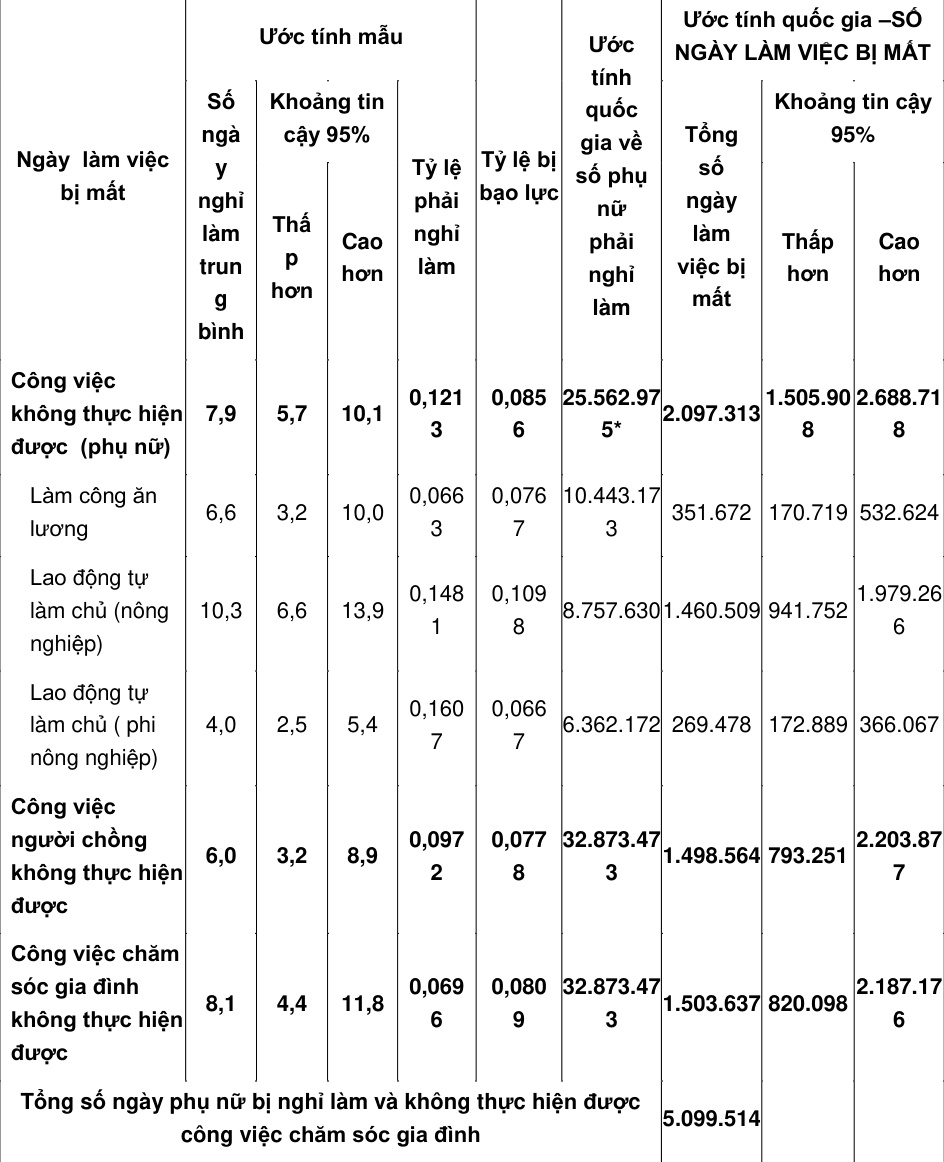
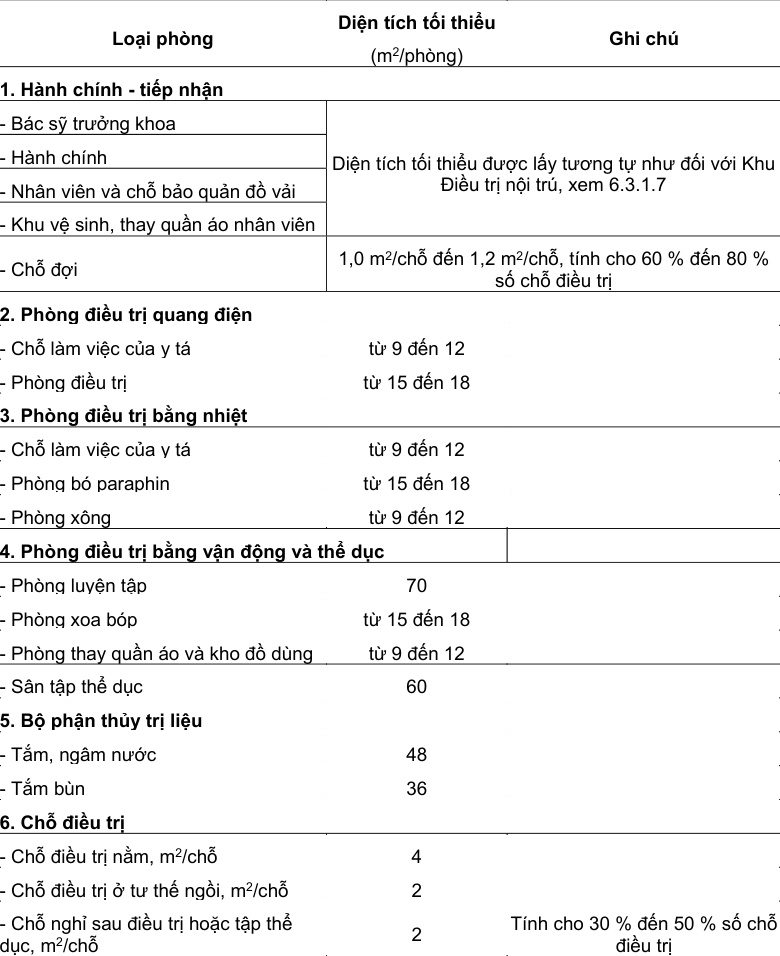
update mask_line to include masking random rows. Also tested and ready

Changed region(s): [[0.0, 0.0, 1.0, 1.0], [0.3692, 0.728, 0.4, 0.7584]]

diff --git a/mask_line.py b/mask_line.py
@@ -1,7 +1,9 @@
 from base import BaseAugmenter
 from utils import *
 from scipy.stats import mode
+from change_color import find_streaks
 
+# np.random.seed(42)
 
 def get_nearby_line_bb(line_bb, line_thickness=5, axis='vertical', side='left'):
     if axis == 'vertical':
@@ -57,7 +59,7 @@ class MaskLineAugmenter(BaseAugmenter):
     def __init__(self):
         super().__init__()
         self.line_thickness = 4
-        self.augment_types = ['all_rows', 'all_cols', 'all_rows_cols']
+        self.augment_types = ['all_rows', 'all_cols', 'all_rows_cols', 'random_rows']
 
 
     def check(self, im: Image, rows, cols, spans, texts):
@@ -124,15 +126,10 @@ class MaskLineAugmenter(BaseAugmenter):
         return (total_rows == 0 or black_rows / total_rows > 0.7) and (total_cols == 0 or black_cols/total_cols > 0.7)
     
 
-    def mask_rows(self, im, rows, cols, spans, text_boxes, cells, mask_type: Literal['all', 'random']='all'):
+    def mask_rows(self, im, rows, cols, spans, text_boxes, cells, remove_indexes):
         """
             remove upper row edges
         """
-        if mask_type == 'random':
-            remove_indexes = np.random.choice(list(range(len(rows))), size=int(len(rows) * 0.5), replace=False)
-        else:
-            remove_indexes = list(range(len(rows)))
-
         rows = sorted(rows, key=lambda x: x[1])
         for row_idx, row_bb in enumerate(rows):
             if row_idx not in remove_indexes:
@@ -312,6 +309,110 @@ class MaskLineAugmenter(BaseAugmenter):
     
 
 
+    def mask_random_rows(self, im: Image, rows, cols, spans, text_boxes, cells):
+        """
+            only keep some row border lines
+            idea:
+            + find streaks
+            + augment in each streak
+            + divide streak based on length
+            + augment in each streak zone
+            condition:
+             + only apply to row streaks with no span cell inside
+
+            divide_indexes: [1, a, b, n]
+            -> zones: (1 -> a), (a+1 -> b), (b+1 -> n) (inclusive at both end)
+        """
+
+        def is_divide_indexes_valid(divide_indexes):
+            for i, index in enumerate(divide_indexes):
+                if i == len(divide_indexes) - 1:
+                    break
+                next_index = divide_indexes[i+1]
+                if i == 0 and next_index - index < 1:
+                    return False
+                elif next_index - (index+1) < 1:
+                    return False
+            return True
+
+        if len(rows) <= 1:
+            return im
+        
+        valid_row_indexes = [row_idx for row_idx, row in enumerate(rows) if is_row_valid(row, spans)]
+        cells = self.extract_cells(rows, cols, spans)
+        streaks = find_streaks(valid_row_indexes, min_len=2)
+        
+        for row_indexes in streaks:
+            num_rows = len(row_indexes)
+            if num_rows <= 3:
+                num_divide = 1
+            elif 3 < num_rows <= 6:
+                num_divide = 2
+            elif 6 < num_rows <= 15:
+                num_divide = np.random.choice([2,3], p=[0.5,0.5])
+                # num_divide = 3
+            else:
+                num_divide = 4
+            
+            if num_divide == 1:
+                divide_indexes = [row_indexes[0], row_indexes[-1]]
+            else:
+                divide_indexes = list(np.random.choice(row_indexes, size=num_divide-1))
+                divide_indexes.sort()
+                divide_indexes = [row_indexes[0]] + divide_indexes + [row_indexes[-1]]
+                num_try, max_try = 0, 10
+                while not is_divide_indexes_valid(divide_indexes) and num_try <= max_try:
+                    divide_indexes = list(np.random.choice(row_indexes, size=num_divide-1))
+                    divide_indexes.sort()
+                    divide_indexes = [row_indexes[0]] + divide_indexes + [row_indexes[-1]]
+                    num_try += 1
+                if num_try > max_try:
+                    return im
+                
+            for i in range(len(divide_indexes)-1):
+                if i == 0:
+                    start_row_index = divide_indexes[i]
+                    end_row_index = divide_indexes[i+1]
+                else:
+                    start_row_index = divide_indexes[i] + 1
+                    end_row_index = divide_indexes[i+1]
+                start_row_bb = rows[start_row_index]
+                end_row_bb = rows[end_row_index]
+                # mask all inside row borders (note: do not mask the first row - header)
+                im = self.mask_rows(im, rows, cols, spans, text_boxes, cells, remove_indexes=list(range(max(2, start_row_index+1), end_row_index+1)))  # mask upper line
+
+                # mask cols (left line)
+                for col_idx, col_bb in enumerate(cols):
+                    xmin = max(0, col_bb[0] - self.line_thickness // 2)
+                    xmax = xmin + self.line_thickness
+                    ymin, ymax = start_row_bb[1]+1, end_row_bb[3]-1
+                    line_bb = [xmin, ymin, xmax, ymax]
+                    nearby_bb = get_nearby_line_bb(line_bb=line_bb, line_thickness=self.line_thickness, axis='vertical')
+                    # check overlap with any text bbox
+                    is_overlap = False
+                    if col_idx > 0:
+                        for text_bb in text_boxes:
+                            text_xmin, text_ymin, text_xmax, text_ymax = text_bb
+                            yr1, yr2, yiou = iou_axis(text_ymin, text_ymax, nearby_bb[1], nearby_bb[3])
+                            if yr1 > 0:
+                                xr1, xr2, xiou = iou_axis(text_xmin, text_xmax, nearby_bb[0], nearby_bb[2])
+                                if xr2 > 0.5:
+                                    is_overlap = True
+                                    break
+                    if not is_overlap:
+                        nearby_region = im[nearby_bb[1]:nearby_bb[3], nearby_bb[0]:nearby_bb[2]]
+                    else:
+                        temp_bb = [col_bb[0], ymin, col_bb[2], ymax]
+                        bg_color = get_background_color(im, temp_bb)
+                        # bg_color = (255, 255, 255)
+                        h, w = nearby_bb[3] - nearby_bb[1], nearby_bb[2] - nearby_bb[0]
+                        nearby_region = np.full(shape=(h, w, 3), fill_value=bg_color, dtype=np.uint8)
+                    im[ymin:ymax, xmin:xmax] = nearby_region
+
+        return im
+    
+
+
     def process(self, im: Image, rows, cols, spans, texts, augment_type='all_rows_cols'):
         assert augment_type in self.augment_types, f'{augment_type} not supported!'
 
@@ -321,17 +422,18 @@ class MaskLineAugmenter(BaseAugmenter):
         cells = self.extract_cells(rows, cols, spans)
 
         if augment_type == 'all_rows':
-            im = self.mask_rows(im, rows, cols, spans, text_boxes, cells, mask_type='all')
+            remove_indexes = list(range(len(rows)))
+            im = self.mask_rows(im, rows, cols, spans, text_boxes, cells, remove_indexes)
         elif augment_type == 'all_cols':
-            im = self.mask_cols(im, rows, cols, spans, text_boxes, cells, mask_type='all')
+            remove_indexes = list(range(len(cols)))
+            im = self.mask_cols(im, rows, cols, spans, text_boxes, cells, remove_indexes)
         elif augment_type == 'all_rows_cols':
-            im = self.mask_rows(im, rows, cols, spans, text_boxes, cells, mask_type='all')
-            im = self.mask_cols(im, rows, cols, spans, text_boxes, cells, mask_type='all')
-        # elif augment_type == 'random_rows':
-        #     im = self.mask_rows(im, rows, cols, spans, text_boxes, mask_type='random')
+            im = self.mask_rows(im, rows, cols, spans, text_boxes, cells, remove_indexes=list(range(len(rows))))
+            im = self.mask_cols(im, rows, cols, spans, text_boxes, cells, remove_indexes=list(range(len(cols))))
+        elif augment_type == 'random_rows':
+            im = self.mask_random_rows(im, rows, cols, spans, text_boxes, cells)
         # elif augment_type == 'random_cols':
         #     im = self.mask_cols(im, rows, cols, spans, text_boxes, mask_type='random')
-
         return Image.fromarray(im[:, :, ::-1]), rows, cols, spans
     
 

diff --git a/main.py b/main.py
@@ -11,15 +11,15 @@ def main():
     # augmenter = ChangeColorAugmenter()
     # augmenter = MergeCellAugmenter()
 
-    # dir = 'temp_imgs_2'
-    dir = 'temp_pdf_imgs'
-    # out_dir = 'results/temp_imgs_2'
-    out_dir = 'results/temp_pdf_imgs'
+    dir = 'temp_imgs_2'
+    # dir = 'temp_pdf_imgs'
+    out_dir = 'results/temp_imgs_2'
+    # out_dir = 'results/temp_pdf_imgs'
 
     os.makedirs(out_dir, exist_ok=True)
     for ip in Path(dir).glob('*'):
-        if '_bao_cao_chinh_268_table_' not in ip.stem:
-            continue
+        # if 'nh-vien-da-khoa-2012_21_table_1' not in ip.stem:
+        #     continue
         if not is_image(ip):
             continue
         xp = ip.with_suffix('.xml')
@@ -48,7 +48,7 @@ def main():
 
         for i in range(1):
             print(f'Augment file {ip}, time {i}')
-            im, rows, cols, spans = augmenter.process(im, rows, cols, spans, texts, augment_type='all_rows')
+            im, rows, cols, spans = augmenter.process(im, rows, cols, spans, texts, augment_type='random_rows')
 
             # im.save(os.path.join(out_dir, f'{ip.stem}.png'))
             # boxes = rows + cols + spans
@@ -56,8 +56,8 @@ def main():
             # write_to_xml(boxes, names, im.size, os.path.join(out_dir, f'{ip.stem}.xml'))
             # pdb.set_trace()
         
-        im.save('test.png')
-        pdb.set_trace()
+        # im.save('test.png')
+        # pdb.set_trace()
 
         # draw
         # draw = ImageDraw.Draw(im)
@@ -68,10 +68,10 @@ def main():
         # for span in spans:
         #     draw.rectangle(span, outline='blue', width=2)
 
-        # im.save(os.path.join(out_dir, f'{ip.stem}.png'))
-        # boxes = rows + cols + spans
-        # names = ['row']*len(rows) + ['col']*len(cols) + ['span']*len(spans)
-        # write_to_xml(boxes, names, im.size, os.path.join(out_dir, f'{ip.stem}.xml'))
+        im.save(os.path.join(out_dir, f'{ip.stem}.png'))
+        boxes = rows + cols + spans
+        names = ['row']*len(rows) + ['col']*len(cols) + ['span']*len(spans)
+        write_to_xml(boxes, names, im.size, os.path.join(out_dir, f'{ip.stem}.xml'))
 
 
 
